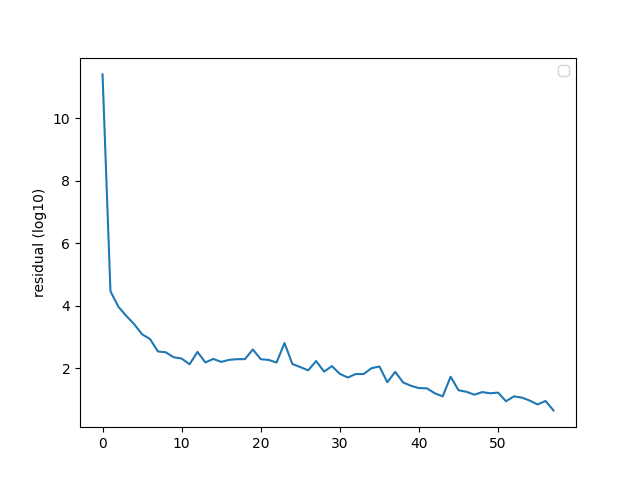
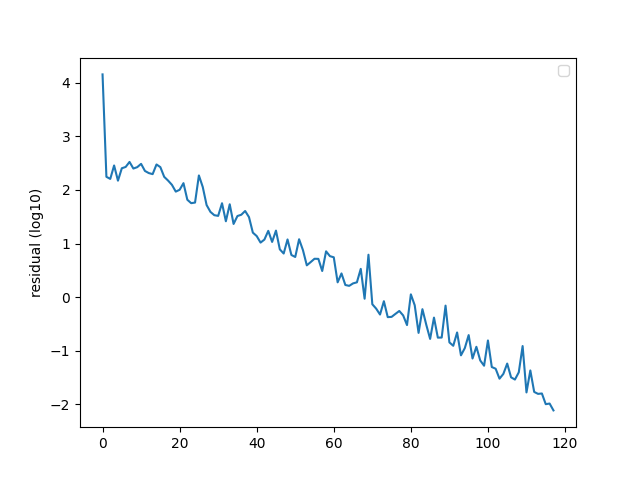
update

diff --git a/utils.py b/utils.py
@@ -61,7 +61,7 @@ class KernelRidgeRegression:
             self.comm = comm
             self.rank = self.comm.Get_rank()
             self.size = self.comm.Get_size()
-    def conjugate_gradient(self, A, y, threshold=5.):
+    def conjugate_gradient(self, A, y, threshold=1e-2):
         iter = 0
         n = y.shape[0]
         # Initialization
@@ -88,7 +88,7 @@ class KernelRidgeRegression:
             se = new_se
             iter += 1
         return alpha, error_list       
-    def conjugate_gradient_parallel(self, A_local, y_local, tol=10, max_iter=1000):
+    def conjugate_gradient_parallel(self, A_local, y_local, tol=1e-2, max_iter=1000):
 
         self.tol = tol
         self.max_iter = max_iter
@@ -173,11 +173,10 @@ class KernelRidgeRegression:
             self.alpha = np.load(f'alpha.npy')
 
     def predict(self, train_data, pred_data, **parameters):
+        K = self.kernel.get_kernel(self.kernel_name, pred_data, train_data, **parameters)
         if not self.do_parallel:
-            K = self.kernel.get_kernel(self.kernel_name, pred_data, train_data, **parameters)
             predicted_label = np.dot(K, self.alpha)
         else:
-            K = self.kernel.get_kernel_parallel(self.kernel_name, pred_data, train_data, **parameters)
             predicted_label = np.dot(K, self.alpha)
             predicted_label = self.comm.reduce(predicted_label, op=MPI.SUM, root=0)
         return predicted_label
